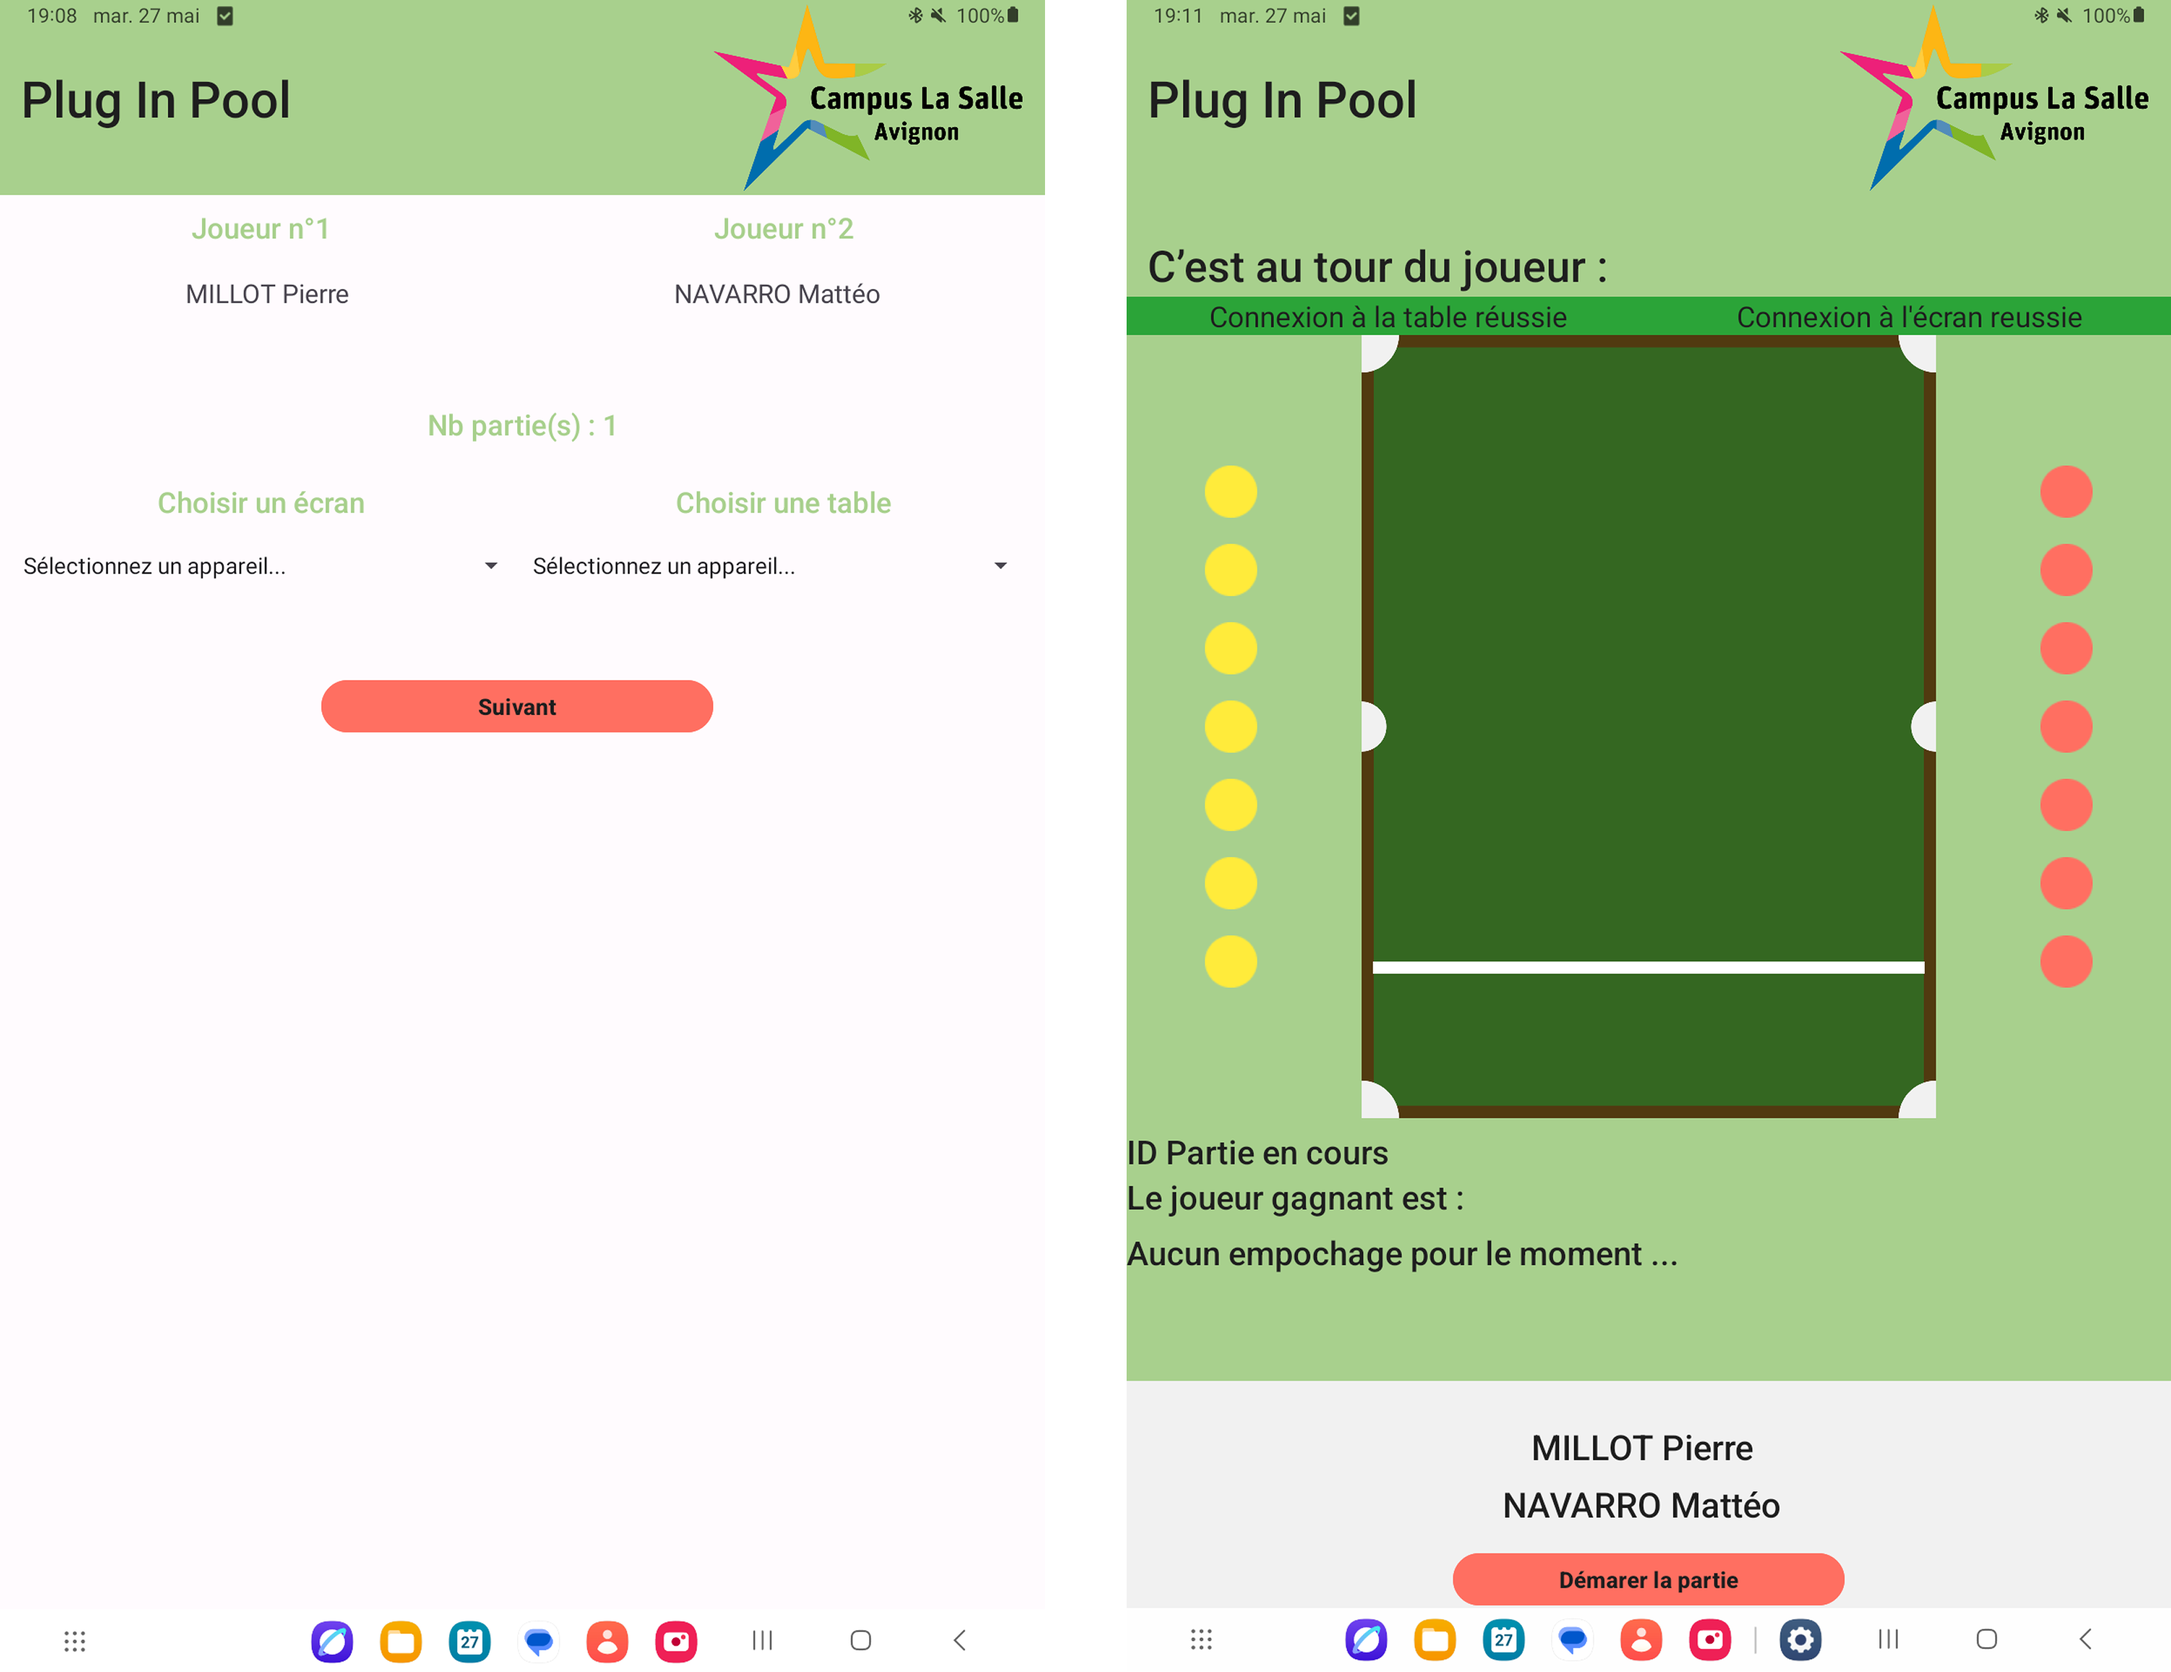
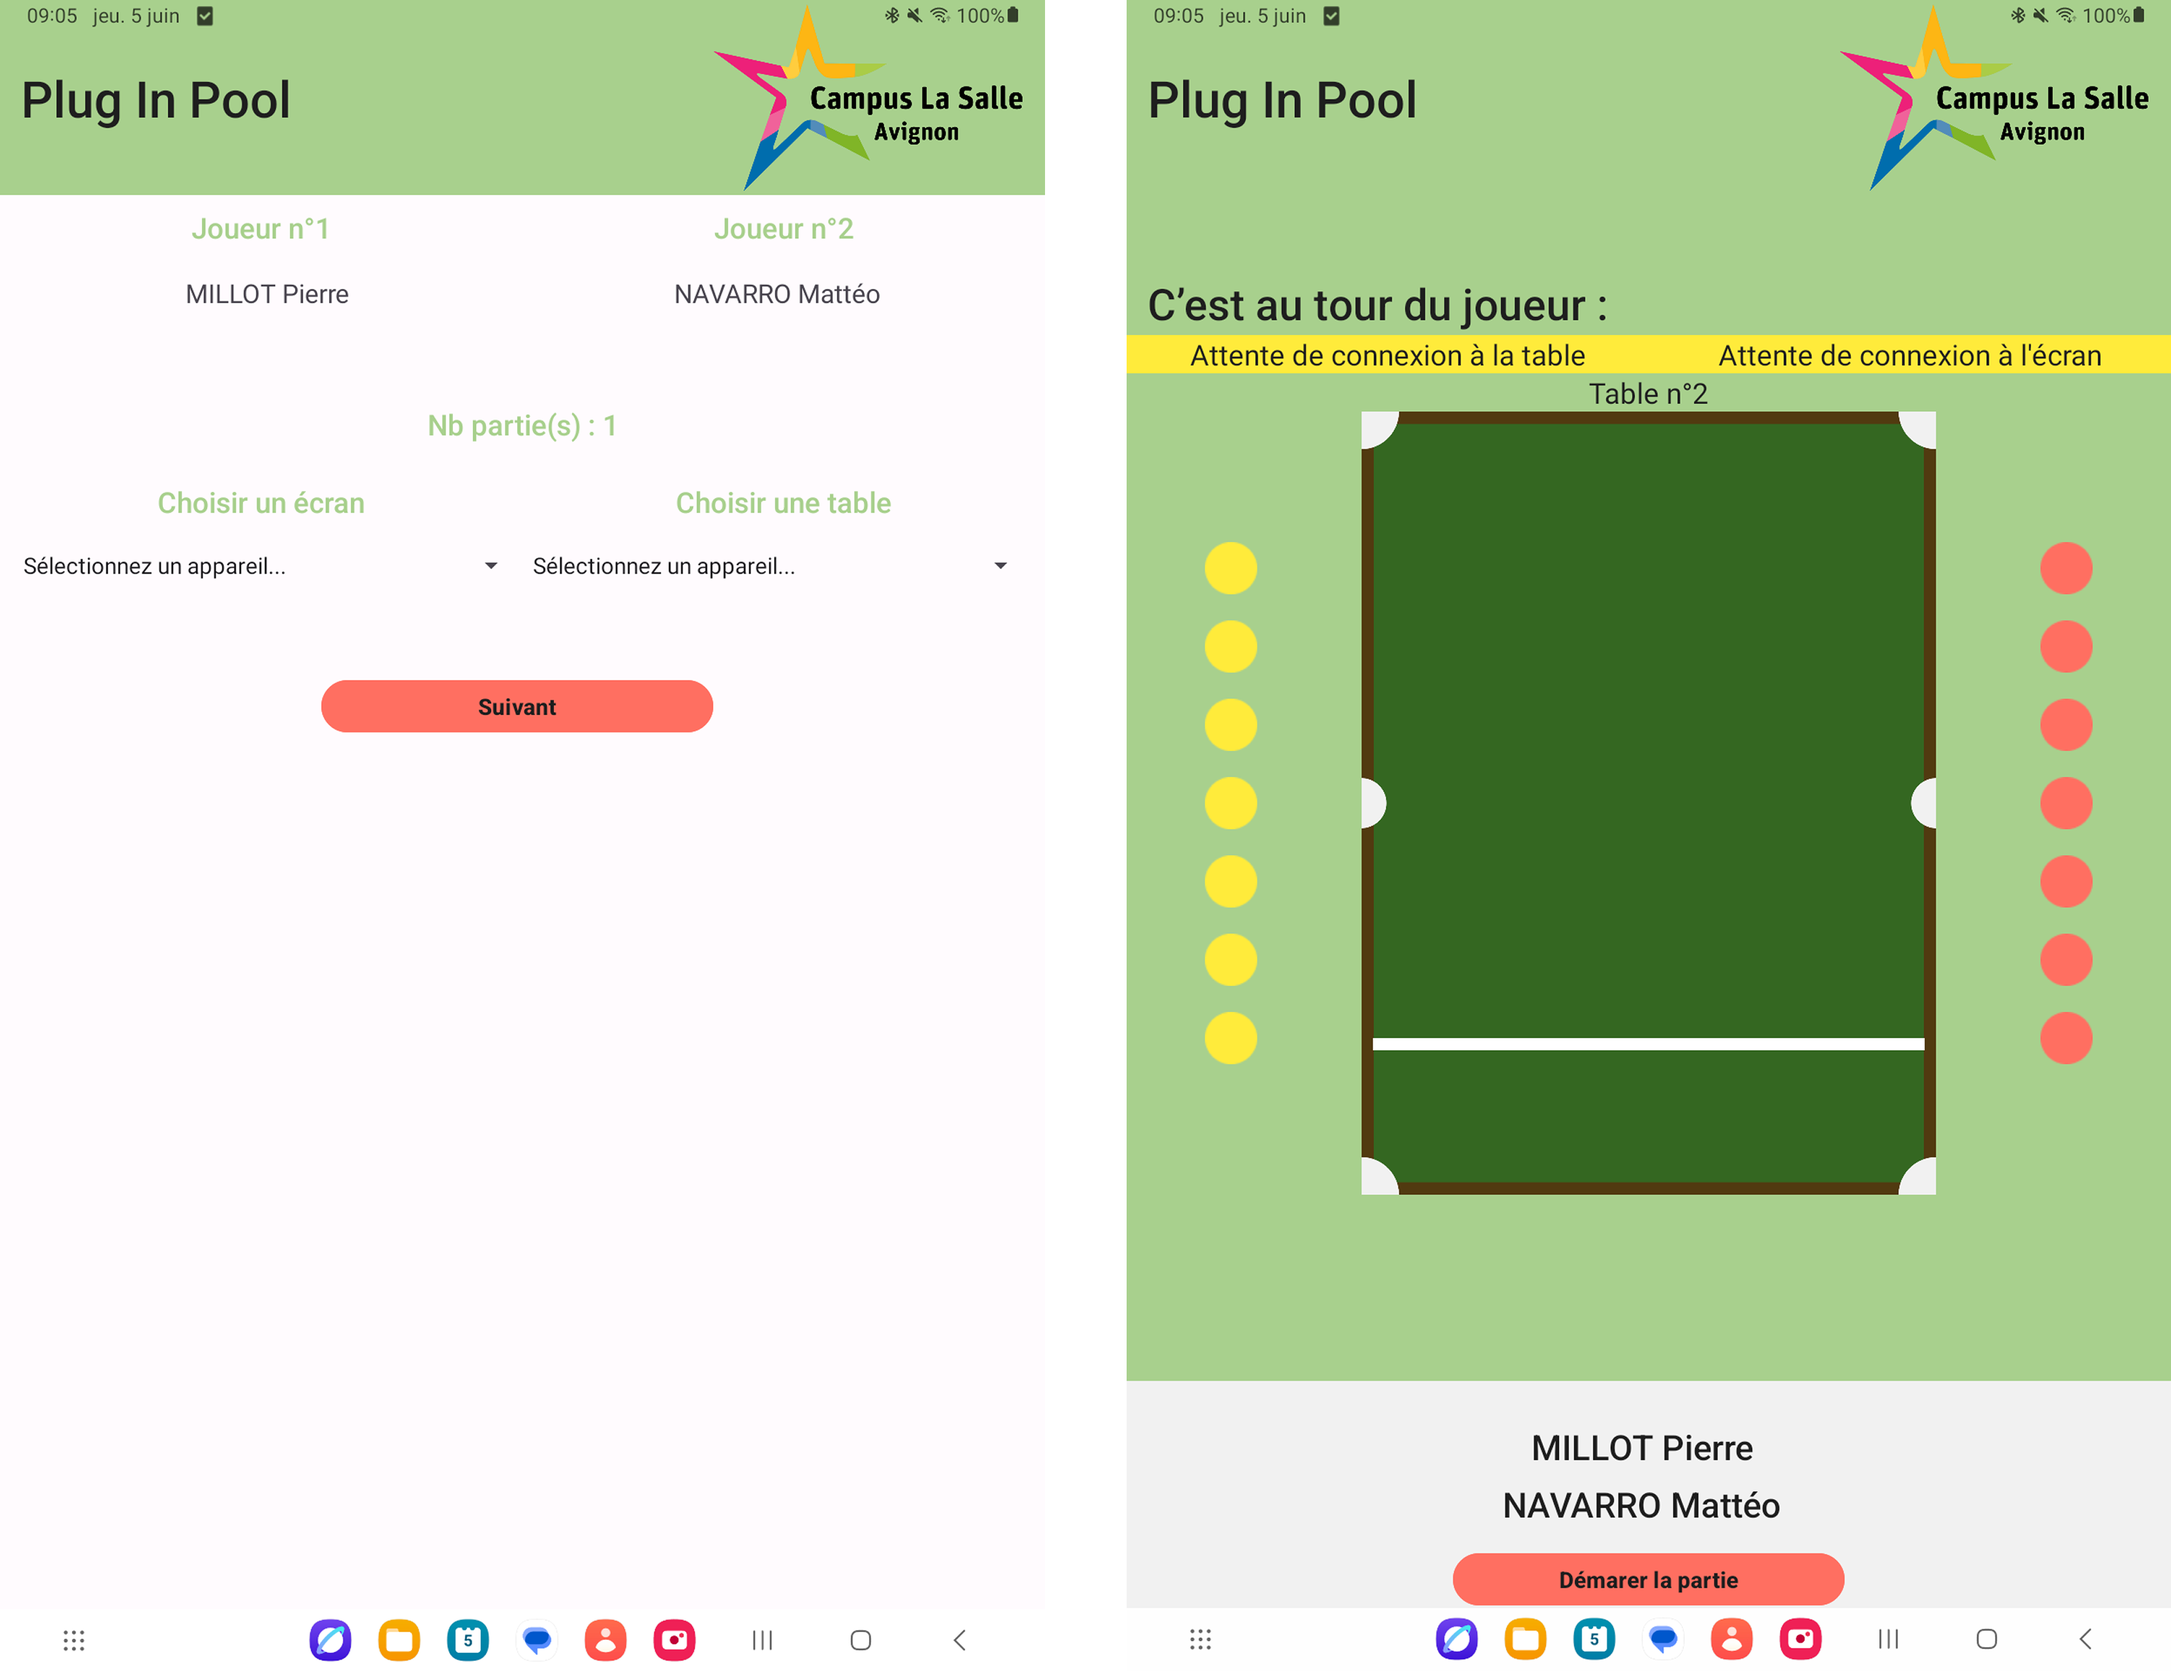
Modifier le readme

diff --git a/README.md b/README.md
@@ -42,6 +42,7 @@
       - [Module de gestion de matchs](#module-de-gestion-de-matchs)
       - [Diagramme de cas d'utilisation (Android)](#diagramme-de-cas-dutilisation-android)
       - [IHM de l'application Android](#ihm-de-lapplication-android)
+      - [Visite de l'IHM](#visite-de-lihm)
       - [Diagramme de classes (Android)](#diagramme-de-classes-android)
       - [Recette](#recette)
       - [Base de données](#base-de-données)
@@ -125,11 +126,19 @@ Le terminal mobile Android, stocke chaque match dans une base de données SQLite
 
 ![](./images/choixDesAppreilsEtActivitePartie.png)
 
-![](./images/demarerPartieEtEmpochage.png)
+![](./images/demarerPartie.png)
 
-![](./images/finDePartieEtHistorique.png)
+![](./images/partieEtFinDePartie.png)
+
+![](./images/historique.png)
+
+#### Visite de l'IHM
+
+![](./images/applicationAndroid.gif)
 
 #### Diagramme de classes (Android)
+
+![](./images/classes-android.png)
 
 Pour `ActivitePartie` :
 
@@ -533,8 +542,15 @@ Fin de match :
 
 - [x] Enregistrer les données du match dans la base de données
 - [x] Corriger bugs de connexion Bluetooth sur l'application Android
+- [x] Améliorer l'interface de l'Activité Partie Android
 
 ## Changelog
+
+### Version 1.1
+
+- [x] Enregistrer les données du match dans la base de données
+- [x] Corriger bugs de connexion Bluetooth sur l'application Android
+- [x] Améliorer l'interface de l'Activité Partie Android
 
 ### Version 1.0
 
@@ -558,7 +574,8 @@ Fin de match :
 
 ### Android
 
-
+- Si, après un match, les joueurs en reconfigurent un nouveau, il peut arriver que la liaison avec la table soit impossible.
+- Si le temps de connexion à l'écran est long, la tablette peut afficher que la connexion est impossible, alors qu’elle existe bel et bien (le témoin sur l’écran d’affichage le confirme). Mais cet état est mis à jour lors du démarrage de la partie.
 
 ### Qt
 
@@ -567,6 +584,7 @@ Fin de match :
 ## TODO
 
 - [ ] Jouer plusieurs parties
+- [ ] Corriger les défauts constatés non corrigés
 
 ## Documentation du code
 
